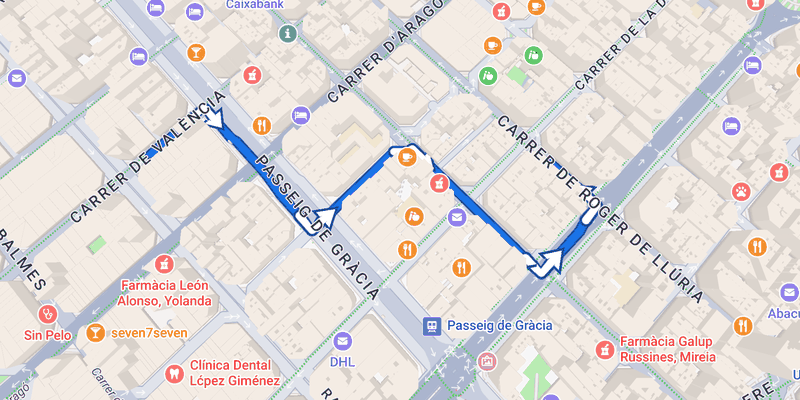
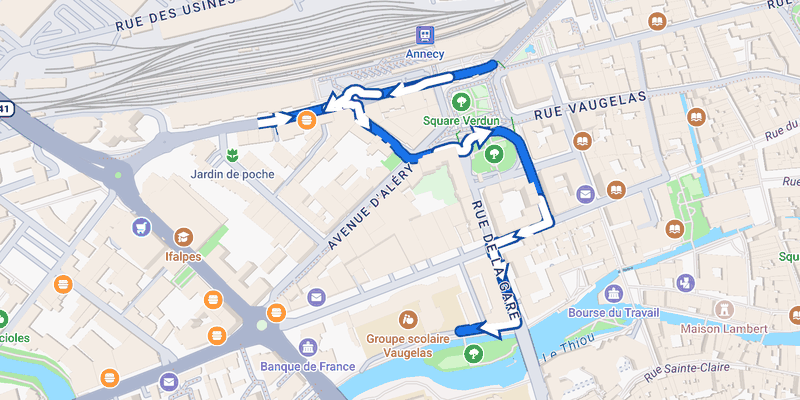
feat(examples): move maneuver-arrows to Annecy, with roundabouts, a U-turn and a lane change
A real OSRM route round Annecy station instead of the Barcelona grid, so one example shows every
arrow shape navigation produces: three roundabouts, a U-turn on the centre line, right and left
turns, and a synthetic lane change. Per-maneuver lengths go through the facade arrow builder.
Android, iOS and web; the NativeScript port is its own PR in ui-massifmaps.

diff --git a/scripts/android-dev/app/src/main/java/com/massifmaps/MassifDemo/examples/search/ManeuverArrowsExample.java b/scripts/android-dev/app/src/main/java/com/massifmaps/MassifDemo/examples/search/ManeuverArrowsExample.java
@@ -20,8 +20,9 @@ import org.json.JSONObject;
 @ExampleInfo(
     id = "maneuver-arrows",
     title = "Navigation maneuver arrows",
-    description = "The route cut 30 m either side of each turn, drawn as one line whose head is a "
-                + "line property: no marker, no bitmap, and a casing that outlines shaft and head alike.",
+    description = "A drive round Annecy station - turns, roundabouts, a U-turn and a lane change - each "
+                + "cut from the route and drawn as one line whose head is a line property: no marker, no "
+                + "bitmap, and a casing that outlines shaft and head alike.",
     section = Sections.SEARCH,
     order = 30)
 public class ManeuverArrowsExample extends MapExample {
@@ -29,24 +30,38 @@ public class ManeuverArrowsExample extends MapExample {
     /** A tile server wants to know who is asking: a real app identifies itself. */
     private static final String UA = "MassifMapsExamples/1.0 (+https://github.com/massif-maps/MassifMaps)";
 
-    /** A drive through the Eixample, Barcelona, along its one-way streets. */
+    /** A drive round Annecy station, as OSRM routes it: roundabouts, a U-turn, both turns. */
     private static final double[][] ROUTE = {
-        { 2.16274, 41.39225 }, { 2.16321, 41.39260 }, { 2.16365, 41.39294 }, { 2.16422, 41.39249 }, { 2.16433, 41.39244 },
-        { 2.16476, 41.39210 }, { 2.16493, 41.39196 }, { 2.16522, 41.39168 }, { 2.16583, 41.39119 }, { 2.16597, 41.39130 },
-        { 2.16606, 41.39136 }, { 2.16613, 41.39141 }, { 2.16615, 41.39143 }, { 2.16657, 41.39174 }, { 2.16697, 41.39204 },
-        { 2.16729, 41.39229 }, { 2.16755, 41.39229 }, { 2.16763, 41.39233 }, { 2.16813, 41.39195 }, { 2.16861, 41.39158 },
-        { 2.16940, 41.39098 }, { 2.16971, 41.39075 }, { 2.16987, 41.39063 }, { 2.17061, 41.39117 }, { 2.17077, 41.39135 },
-        { 2.17097, 41.39153 }, { 2.17086, 41.39162 }, { 2.17016, 41.39215 },
+        { 6.121812, 45.901688 }, { 6.121752, 45.901660 }, { 6.121601, 45.901624 }, { 6.120724, 45.901472 }, { 6.119987, 45.901336 },
+        { 6.119685, 45.901347 }, { 6.119667, 45.901362 }, { 6.119623, 45.901381 }, { 6.119589, 45.901386 }, { 6.119537, 45.901382 },
+        { 6.119480, 45.901356 }, { 6.119457, 45.901330 }, { 6.119447, 45.901301 }, { 6.119213, 45.901192 }, { 6.118270, 45.901021 },
+        { 6.118021, 45.900993 }, { 6.118270, 45.901021 }, { 6.119213, 45.901192 }, { 6.119505, 45.901219 }, { 6.119555, 45.901205 },
+        { 6.119609, 45.901206 }, { 6.119664, 45.901077 }, { 6.119682, 45.901049 }, { 6.119713, 45.901022 }, { 6.119974, 45.900895 },
+        { 6.120225, 45.900750 }, { 6.120287, 45.900686 }, { 6.120363, 45.900643 }, { 6.120416, 45.900599 }, { 6.120501, 45.900591 },
+        { 6.120565, 45.900594 }, { 6.121097, 45.900714 }, { 6.121143, 45.900719 }, { 6.121209, 45.900716 }, { 6.121222, 45.900697 },
+        { 6.121259, 45.900678 }, { 6.121321, 45.900679 }, { 6.121345, 45.900689 }, { 6.121366, 45.900709 }, { 6.121374, 45.900734 },
+        { 6.121366, 45.900758 }, { 6.121409, 45.900806 }, { 6.121458, 45.900838 }, { 6.121733, 45.900903 }, { 6.121889, 45.900912 },
+        { 6.121956, 45.900900 }, { 6.122027, 45.900879 }, { 6.122141, 45.900825 }, { 6.122171, 45.900807 }, { 6.122211, 45.900767 },
+        { 6.122356, 45.900473 }, { 6.122629, 45.899880 }, { 6.122331, 45.899798 }, { 6.121724, 45.899628 }, { 6.121764, 45.899520 },
+        { 6.122008, 45.899000 }, { 6.122070, 45.898810 }, { 6.121217, 45.898719 },
     };
 
-    /** Route point index of each maneuver, as a routing engine reports it. */
+    /**
+     * Route point index of each maneuver as a routing engine reports it, the metres of route kept
+     * before and after it, and a sideways shift in metres for a lane change (0 = follow the route).
+     */
     private static final Object[][] MANEUVERS = {
-        { 2, "Turn right onto Passeig de Gràcia" },
-        { 8, "Turn left onto Carrer del Consell de Cent" },
-        { 17, "Turn right onto Carrer de Pau Claris" },
-        { 22, "Turn left onto Gran Via de les Corts Catalanes" },
-        { 25, "Turn left onto Carrer de Roger de Llúria" },
+        { 3, 30.0, 35.0, 3.5, "Move to the left lane on Rue de l'Industrie" },
+        { 5, 20.0, 45.0, 0.0, "At the roundabout, take the exit onto Avenue de Chevêne" },
+        { 15, 30.0, 30.0, 0.0, "Make a U-turn on Avenue de Chevêne" },
+        { 18, 30.0, 30.0, 0.0, "At the small roundabout, keep right on Avenue de Chevêne" },
+        { 33, 25.0, 45.0, 0.0, "At the roundabout, take the exit onto Rue Vaugelas" },
+        { 51, 30.0, 30.0, 0.0, "Turn right onto Rue Royale" },
+        { 53, 30.0, 30.0, 0.0, "Turn left onto Rue de la Gare" },
+        { 56, 30.0, 30.0, 0.0, "Turn right: you have arrived" },
     };
+
+    private static final double METRES_PER_DEGREE = 111319.5;
 
     private static final String[] HEADS = { "classic", "wide", "long" };
 
@@ -104,8 +119,7 @@ public class ManeuverArrowsExample extends MapExample {
         // A layer of its own, added last: it draws over the route and every layer before it.
         final MassifSource maneuvers = map.source("maneuver-data", Spec.of("geojson").set("maxZoom", 18));
         final int layer = maneuvers.createLayer("maneuver");
-        final MassifObject builder = map.object("geometry", "maneuver-arrows", Spec.of("maneuver-arrow")
-            .set("lengthBefore", 30).set("lengthAfter", 30));
+        final MassifObject builder = map.object("geometry", "maneuver-arrows", Spec.of("maneuver-arrow"));
         maneuvers.setLayerGeoJSON(layer, arrows(builder, HEADS[head]));
         map.addLayer("maneuver", Spec.of("vector")
             .set("source", "maneuver-data")
@@ -120,7 +134,7 @@ public class ManeuverArrowsExample extends MapExample {
                 int index = (Integer) MANEUVERS[step][0];
                 map.camera().animate(1.5f).moveTo(new Position(ROUTE[index][0], ROUTE[index][1]),
                                                   17, (float) -bearing(index), 70);
-                host.caption((step + 1) + "/" + MANEUVERS.length + ": " + MANEUVERS[step][1] + ".");
+                host.caption((step + 1) + "/" + MANEUVERS.length + ": " + MANEUVERS[step][4] + ".");
             }
         });
         host.button("Head shape", new Runnable() {
@@ -140,25 +154,54 @@ public class ManeuverArrowsExample extends MapExample {
     }
 
     private static void overview(MassifMap map, ExampleHost host, float seconds) {
-        map.camera().animate(seconds).moveTo(new Position(2.1674, 41.3916), 16.1f, 0, 80);
-        host.caption("One arrow per maneuver, cut from the route 30 m either side of the turn.");
+        map.camera().animate(seconds).moveTo(new Position(6.1203, 45.9002), 16.3f, 0, 80);
+        host.caption("One arrow per maneuver, cut from the route either side of it.");
     }
 
     private static String arrows(MassifObject builder, String head) {
         try {
             JSONArray features = new JSONArray();
             for (Object[] maneuver : MANEUVERS) {
-                MassifObject result = builder.call("buildArrowAtIndex", ROUTE, maneuver[0]);
+                int index = (Integer) maneuver[0];
+                double after = (Double) maneuver[2], shift = (Double) maneuver[3];
+                // A lane change leaves the route: the builder walks the part behind, the shift is drawn ahead.
+                builder.set("lengthBefore", maneuver[1]).set("lengthAfter", shift != 0 ? 0.0 : after);
+                MassifObject result = builder.call("buildArrowAtIndex", ROUTE, index);
                 JSONArray arrow = new JSONObject(result.json()).getJSONArray("features");
                 result.close();
                 for (int i = 0; i < arrow.length(); i++) {
-                    features.put(arrow.getJSONObject(i).put("properties", new JSONObject().put("head", head)));
+                    JSONObject feature = arrow.getJSONObject(i);
+                    if (shift != 0) {
+                        JSONArray coordinates = feature.getJSONObject("geometry").getJSONArray("coordinates");
+                        JSONArray last = coordinates.getJSONArray(coordinates.length() - 1);
+                        if (Math.abs(last.getDouble(0) - ROUTE[index][0]) + Math.abs(last.getDouble(1) - ROUTE[index][1]) < 1e-9) {
+                            coordinates.remove(coordinates.length() - 1);
+                        }
+                        for (double[] point : laneChange(index, after, shift)) {
+                            coordinates.put(new JSONArray().put(point[0]).put(point[1]));
+                        }
+                    }
+                    features.put(feature.put("properties", new JSONObject().put("head", head)));
                 }
             }
             return new JSONObject().put("type", "FeatureCollection").put("features", features).toString();
         } catch (JSONException e) {
             throw new IllegalStateException(e);
         }
+    }
+
+    /** Ahead of point {@code index} along its segment, moving {@code shift} metres left over the first 40%. */
+    private static double[][] laneChange(int index, double after, double shift) {
+        double[] at = ROUTE[index], next = ROUTE[index + 1];
+        double k = Math.cos(Math.toRadians(at[1]));
+        double dx = (next[0] - at[0]) * k, dy = next[1] - at[1], d = Math.hypot(dx, dy);
+        double left = shift / METRES_PER_DEGREE;
+        double[][] out = new double[2][];
+        for (int i = 0; i < 2; i++) {
+            double along = (i == 0 ? 0.4 : 1.0) * after / METRES_PER_DEGREE;
+            out[i] = new double[] { at[0] + (dx * along - dy * left) / d / k, at[1] + (dy * along + dx * left) / d };
+        }
+        return out;
     }
 
     private static String coordinates(double[][] points) {

diff --git a/scripts/ios-dev/MassifDemo/Examples/MSFManeuverArrowsExample.m b/scripts/ios-dev/MassifDemo/Examples/MSFManeuverArrowsExample.m
@@ -23,27 +23,45 @@
 static NSString * const kUserAgent =
     @"MassifMapsExamples/1.0 (+https://github.com/massif-maps/MassifMaps)";
 
-/** A drive through the Eixample, Barcelona, along its one-way streets. */
+/** A drive round Annecy station, as OSRM routes it: roundabouts, a U-turn, both turns. */
 static const double kRoute[][2] = {
-    { 2.16274, 41.39225 }, { 2.16321, 41.39260 }, { 2.16365, 41.39294 }, { 2.16422, 41.39249 }, { 2.16433, 41.39244 },
-    { 2.16476, 41.39210 }, { 2.16493, 41.39196 }, { 2.16522, 41.39168 }, { 2.16583, 41.39119 }, { 2.16597, 41.39130 },
-    { 2.16606, 41.39136 }, { 2.16613, 41.39141 }, { 2.16615, 41.39143 }, { 2.16657, 41.39174 }, { 2.16697, 41.39204 },
-    { 2.16729, 41.39229 }, { 2.16755, 41.39229 }, { 2.16763, 41.39233 }, { 2.16813, 41.39195 }, { 2.16861, 41.39158 },
-    { 2.16940, 41.39098 }, { 2.16971, 41.39075 }, { 2.16987, 41.39063 }, { 2.17061, 41.39117 }, { 2.17077, 41.39135 },
-    { 2.17097, 41.39153 }, { 2.17086, 41.39162 }, { 2.17016, 41.39215 },
+    { 6.121812, 45.901688 }, { 6.121752, 45.901660 }, { 6.121601, 45.901624 }, { 6.120724, 45.901472 }, { 6.119987, 45.901336 },
+    { 6.119685, 45.901347 }, { 6.119667, 45.901362 }, { 6.119623, 45.901381 }, { 6.119589, 45.901386 }, { 6.119537, 45.901382 },
+    { 6.119480, 45.901356 }, { 6.119457, 45.901330 }, { 6.119447, 45.901301 }, { 6.119213, 45.901192 }, { 6.118270, 45.901021 },
+    { 6.118021, 45.900993 }, { 6.118270, 45.901021 }, { 6.119213, 45.901192 }, { 6.119505, 45.901219 }, { 6.119555, 45.901205 },
+    { 6.119609, 45.901206 }, { 6.119664, 45.901077 }, { 6.119682, 45.901049 }, { 6.119713, 45.901022 }, { 6.119974, 45.900895 },
+    { 6.120225, 45.900750 }, { 6.120287, 45.900686 }, { 6.120363, 45.900643 }, { 6.120416, 45.900599 }, { 6.120501, 45.900591 },
+    { 6.120565, 45.900594 }, { 6.121097, 45.900714 }, { 6.121143, 45.900719 }, { 6.121209, 45.900716 }, { 6.121222, 45.900697 },
+    { 6.121259, 45.900678 }, { 6.121321, 45.900679 }, { 6.121345, 45.900689 }, { 6.121366, 45.900709 }, { 6.121374, 45.900734 },
+    { 6.121366, 45.900758 }, { 6.121409, 45.900806 }, { 6.121458, 45.900838 }, { 6.121733, 45.900903 }, { 6.121889, 45.900912 },
+    { 6.121956, 45.900900 }, { 6.122027, 45.900879 }, { 6.122141, 45.900825 }, { 6.122171, 45.900807 }, { 6.122211, 45.900767 },
+    { 6.122356, 45.900473 }, { 6.122629, 45.899880 }, { 6.122331, 45.899798 }, { 6.121724, 45.899628 }, { 6.121764, 45.899520 },
+    { 6.122008, 45.899000 }, { 6.122070, 45.898810 }, { 6.121217, 45.898719 },
 };
 enum { kRouteCount = sizeof(kRoute) / sizeof(kRoute[0]) };
 
-/** Route point index of each maneuver, as a routing engine reports it. */
-static const int kManeuverIndex[] = { 2, 8, 17, 22, 25 };
-static NSString * const kManeuverText[] = {
-    @"Turn right onto Passeig de Gràcia",
-    @"Turn left onto Carrer del Consell de Cent",
-    @"Turn right onto Carrer de Pau Claris",
-    @"Turn left onto Gran Via de les Corts Catalanes",
-    @"Turn left onto Carrer de Roger de Llúria",
+/**
+ * Route point index of each maneuver as a routing engine reports it, the metres of route kept
+ * before and after it, and a sideways shift in metres for a lane change (0 = follow the route).
+ */
+typedef struct { int index; double before, after, shift; } MSFManeuver;
+static const MSFManeuver kManeuvers[] = {
+    { 3, 30, 35, 3.5 }, { 5, 20, 45, 0 }, { 15, 30, 30, 0 }, { 18, 30, 30, 0 },
+    { 33, 25, 45, 0 }, { 51, 30, 30, 0 }, { 53, 30, 30, 0 }, { 56, 30, 30, 0 },
 };
-enum { kManeuverCount = sizeof(kManeuverIndex) / sizeof(kManeuverIndex[0]) };
+static NSString * const kManeuverText[] = {
+    @"Move to the left lane on Rue de l'Industrie",
+    @"At the roundabout, take the exit onto Avenue de Chevêne",
+    @"Make a U-turn on Avenue de Chevêne",
+    @"At the small roundabout, keep right on Avenue de Chevêne",
+    @"At the roundabout, take the exit onto Rue Vaugelas",
+    @"Turn right onto Rue Royale",
+    @"Turn left onto Rue de la Gare",
+    @"Turn right: you have arrived",
+};
+enum { kManeuverCount = sizeof(kManeuvers) / sizeof(kManeuvers[0]) };
+
+static const double kMetresPerDegree = 111319.5;
 
 static NSString * const kHeads[] = { @"classic", @"wide", @"long" };
 static const int kHeadCount = 3;
@@ -70,6 +88,20 @@ static NSString * const kArrowStyle =
     @"  [head='long'] { line-arrow-width: 1.9; line-arrow-length: 2.8; }\n"
     @"}";
 
+/** Ahead of point `index` along its segment, moving `shift` metres left over the first 40%. */
+static NSArray *laneChange(int index, double after, double shift) {
+    const double *at = kRoute[index], *next = kRoute[index + 1];
+    double k = cos(at[1] * M_PI / 180);
+    double dx = (next[0] - at[0]) * k, dy = next[1] - at[1], d = hypot(dx, dy);
+    double left = shift / kMetresPerDegree;
+    NSMutableArray *out = [NSMutableArray arrayWithCapacity:2];
+    for (int i = 0; i < 2; i++) {
+        double along = (i == 0 ? 0.4 : 1.0) * after / kMetresPerDegree;
+        [out addObject:@[ @(at[0] + (dx * along - dy * left) / d / k), @(at[1] + (dy * along + dx * left) / d) ]];
+    }
+    return out;
+}
+
 static NSString *arrows(MSFMassifObject *builder, NSString *head) {
     NSMutableArray *route = [NSMutableArray arrayWithCapacity:kRouteCount];
     for (int i = 0; i < kRouteCount; i++) {
@@ -77,7 +109,11 @@ static NSString *arrows(MSFMassifObject *builder, NSString *head) {
     }
     NSMutableArray *features = [NSMutableArray array];
     for (int i = 0; i < kManeuverCount; i++) {
-        MSFMassifObject *result = [builder call:@"buildArrowAtIndex" args:@[ route, @(kManeuverIndex[i]) ] error:nil];
+        MSFManeuver maneuver = kManeuvers[i];
+        // A lane change leaves the route: the builder walks the part behind, the shift is drawn ahead.
+        [builder set:@"lengthBefore" value:@(maneuver.before)];
+        [builder set:@"lengthAfter" value:@(maneuver.shift != 0 ? 0 : maneuver.after)];
+        MSFMassifObject *result = [builder call:@"buildArrowAtIndex" args:@[ route, @(maneuver.index) ] error:nil];
         NSDictionary *arrow = [NSJSONSerialization JSONObjectWithData:[result.json dataUsingEncoding:NSUTF8StringEncoding]
                                                               options:0
                                                                 error:nil];
@@ -85,6 +121,15 @@ static NSString *arrows(MSFMassifObject *builder, NSString *head) {
         for (NSDictionary *feature in arrow[@"features"]) {
             NSMutableDictionary *withHead = [feature mutableCopy];
             withHead[@"properties"] = @{ @"head" : head };
+            if (maneuver.shift != 0) {
+                NSMutableArray *coordinates = [feature[@"geometry"][@"coordinates"] mutableCopy];
+                NSArray *last = coordinates.lastObject;
+                if (fabs([last[0] doubleValue] - kRoute[maneuver.index][0]) + fabs([last[1] doubleValue] - kRoute[maneuver.index][1]) < 1e-9) {
+                    [coordinates removeLastObject];
+                }
+                [coordinates addObjectsFromArray:laneChange(maneuver.index, maneuver.after, maneuver.shift)];
+                withHead[@"geometry"] = @{ @"type" : @"LineString", @"coordinates" : coordinates };
+            }
             [features addObject:withHead];
         }
     }
@@ -111,8 +156,8 @@ static double bearing(int index) {
 }
 
 static void overview(MSFMassifMap *map, id<MSFExampleHost> host, float seconds) {
-    [[map.camera animate:seconds] moveTo:[MSFPosition positionWithLng:2.1674 lat:41.3916] zoom:16.1 rotation:0 tilt:80];
-    [host caption:@"One arrow per maneuver, cut from the route 30 m either side of the turn."];
+    [[map.camera animate:seconds] moveTo:[MSFPosition positionWithLng:6.1203 lat:45.9002] zoom:16.3 rotation:0 tilt:80];
+    [host caption:@"One arrow per maneuver, cut from the route either side of it."];
 }
 
 - (void)startWithHost:(id<MSFExampleHost>)host {
@@ -153,8 +198,7 @@ static void overview(MSFMassifMap *map, id<MSFExampleHost> host, float seconds) 
     int layer = [maneuvers createLayer:@"maneuver"];
     MSFMassifObject *builder = [map object:@"geometry"
                                   objectId:@"maneuver-arrows"
-                                      spec:[[[MSFSpec of:@"maneuver-arrow"] set:@"lengthBefore" value:@30]
-                                               set:@"lengthAfter" value:@30]
+                                      spec:[MSFSpec of:@"maneuver-arrow"]
                                      error:nil];
     __block int head = 0;
     [maneuvers setLayerGeoJSON:layer geoJson:arrows(builder, kHeads[head])];
@@ -170,7 +214,7 @@ static void overview(MSFMassifMap *map, id<MSFExampleHost> host, float seconds) 
     __block int step = -1;
     [host button:@"Next maneuver" action:^{
         step = (step + 1) % kManeuverCount;
-        int index = kManeuverIndex[step];
+        int index = kManeuvers[step].index;
         [[map.camera animate:1.5]
             moveTo:[MSFPosition positionWithLng:kRoute[index][0] lat:kRoute[index][1]]
               zoom:17
